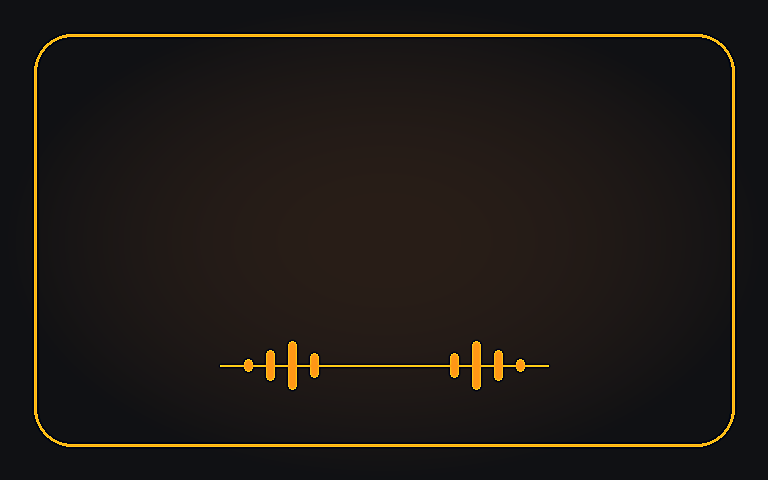
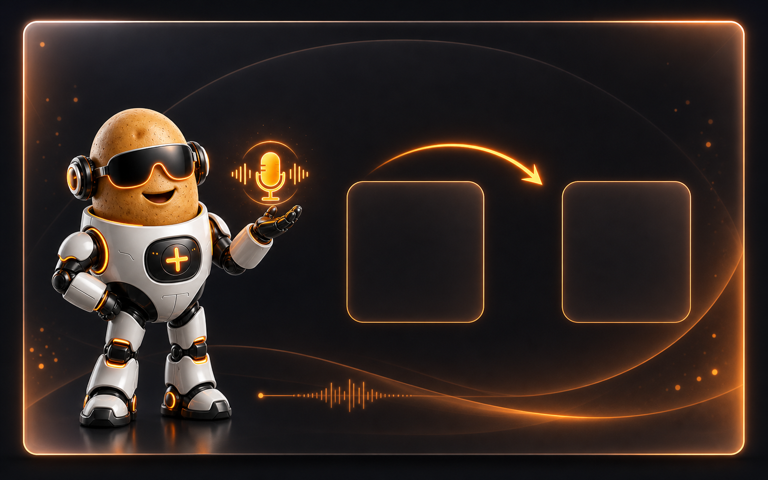
Prepare WakeWord Trainer v7 macOS release

diff --git a/README.md b/README.md
@@ -23,6 +23,22 @@ Real samples come from device-captured wake audio, close misses, or manual uploa
 
 ---
 
+## macOS App
+
+The easiest way to run the trainer on Apple Silicon is the signed macOS app from the GitHub releases page:
+
+[Download WakeWord Trainer for macOS](https://github.com/TaterTotterson/microWakeWord-Trainer-AppleSilicon/releases/latest)
+
+The app wraps the same local web UI, keeps the capture server running from the menu bar, and opens the trainer in a native macOS window. It stores captured audio, samples, generated models, caches, and local environments in:
+
+```text
+~/.taterwakewordtrainer/app/current
+```
+
+Use the manual clone flow below if you want to develop the trainer, run directly from source, or inspect the scripts.
+
+---
+
 ## Clone The Repo
 
 ```bash
@@ -97,7 +113,7 @@ Build the drag-to-Applications installer DMG:
 macos/WakeWordTrainer/scripts/build_dmg.sh
 ```
 
-Tagged releases matching the app version, for example `v5`, run `.github/workflows/macos-release.yml`. The workflow builds the updater zip, installer DMG, update manifest, uploads them as workflow/GitHub release assets, and commits the generated release files back to `main`.
+Tagged releases matching the app version, for example `v7`, run `.github/workflows/macos-release.yml`. The workflow builds the updater zip, installer DMG, update manifest, uploads them as workflow/GitHub release assets, and commits the generated release files back to `main`.
 
 ---
 